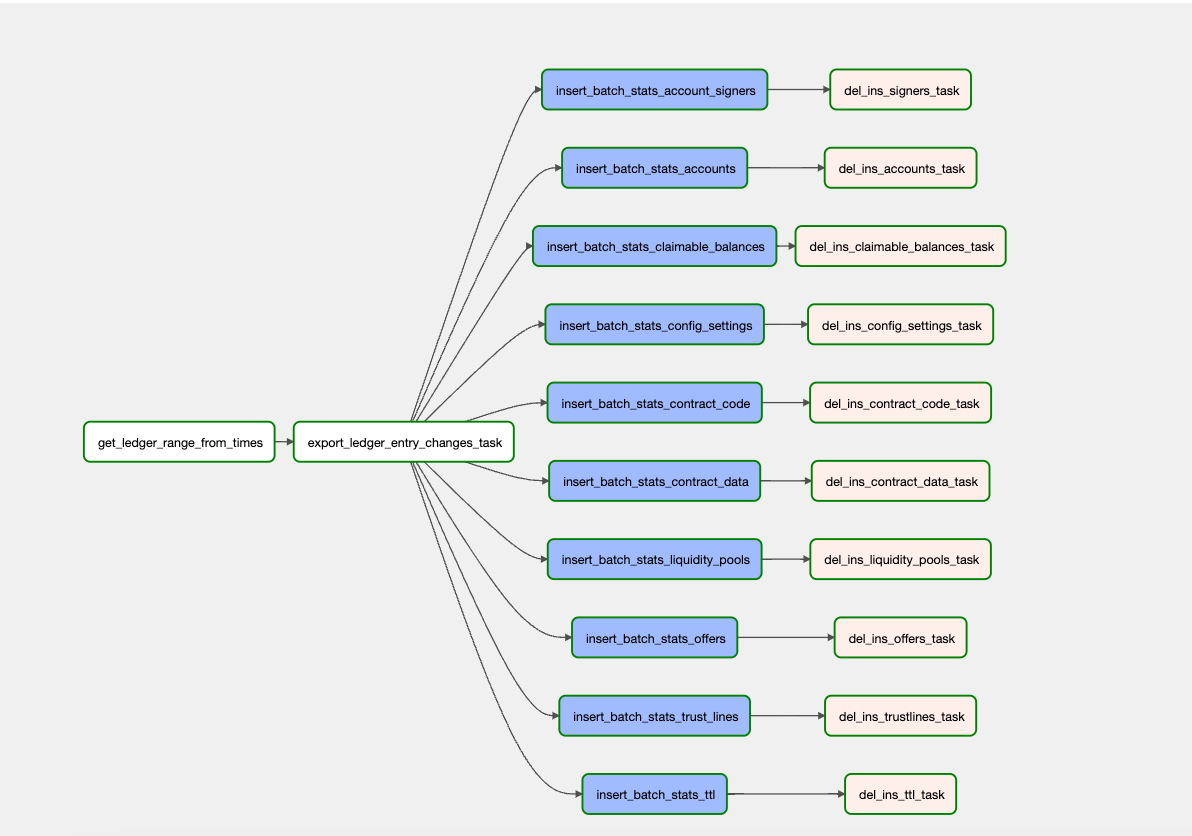
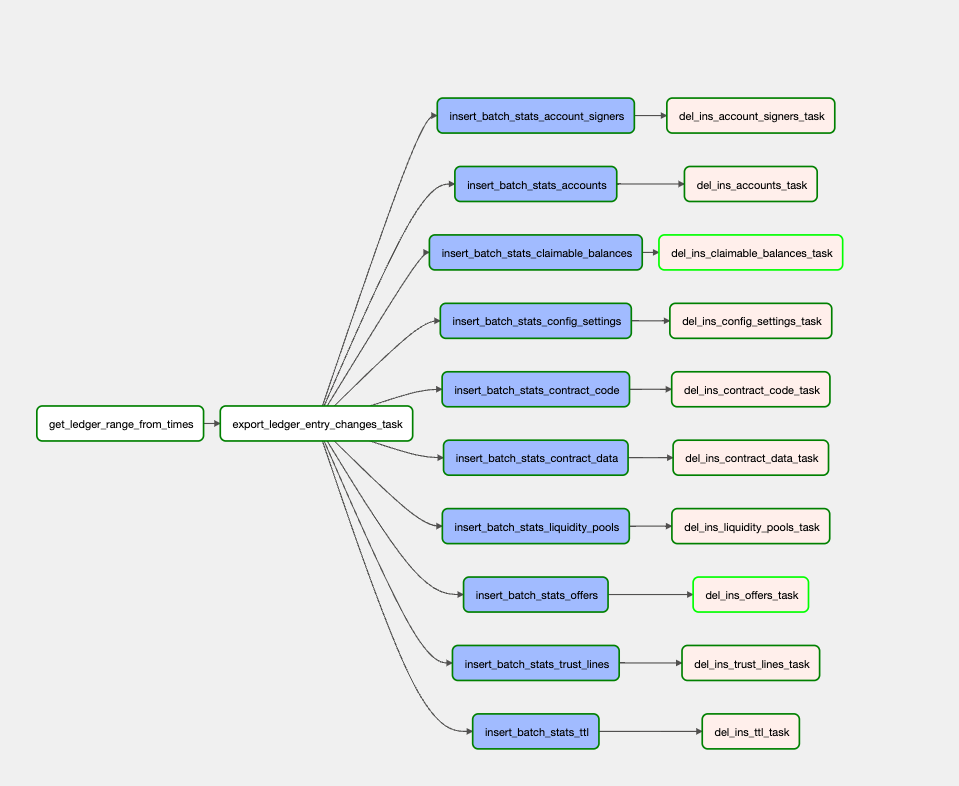
Updated the Documentation images Removed redundant code added checks for missing key values

Changed region(s): [[0.0302, 0.0611, 0.9072, 0.9771], [0.4234, 0.6412, 0.877, 0.7023]]

diff --git a/dags/state_table_dag.py b/dags/state_table_dag.py
@@ -68,6 +68,24 @@ use_futurenet = literal_eval(Variable.get("use_futurenet"))
 use_captive_core = literal_eval(Variable.get("use_captive_core"))
 txmeta_datastore_path = "{{ var.value.txmeta_datastore_path }}"
 
+# Ensure all required keys are present in table_names
+required_keys = [
+    "accounts",
+    "claimable_balances",
+    "offers",
+    "liquidity_pools",
+    "signers",
+    "trustlines",
+    "contract_data",
+    "contract_code",
+    "config_settings",
+    "ttl",
+]
+
+missing_keys = [key for key in required_keys if key not in table_names]
+if missing_keys:
+    raise KeyError(f"Missing Id in the table_ids Airflow Variable: {missing_keys}")
+
 """
 The date task reads in the execution time of the current run, as well as the next
 execution time. It converts these two times into ledger ranges.
@@ -126,14 +144,7 @@ source_object_suffix_mapping = {
     "ttl": "/*-ttl.txt",
 }
 
-# filter for only the required tables pertaining to the DAG
-table_id_and_suffixes = {
-    key: suffix
-    for key, suffix in source_object_suffix_mapping.items()
-    if key in table_names
-}
-
-for table_id, source_object_suffix in table_id_and_suffixes.items():
+for table_id, source_object_suffix in source_object_suffix_mapping.items():
     table_name = table_names[table_id]  # Get the expanded table name
     task_vars = initialize_task_vars(
         table_id,

diff --git a/dags/stellar_etl_airflow/build_del_ins_from_gcs_to_bq_task.py b/dags/stellar_etl_airflow/build_del_ins_from_gcs_to_bq_task.py
@@ -136,8 +136,9 @@ def build_del_ins_from_gcs_to_bq_task(
     if table_name == "history_assets":
         staging_table_suffix = "_staging"
 
+    schema_fields = read_local_schema(f"{table_name}")
+
     if table_id in history_tables:
-        schema_fields = read_local_schema(f"history_{table_id}")
         gcs_to_bq_operator = CustomGCSToBigQueryOperator(
             task_id=f"send_{table_name}_to_bq",
             execution_timeout=timedelta(
@@ -172,7 +173,6 @@ def build_del_ins_from_gcs_to_bq_task(
             dag=dag,
         )
     else:
-        schema_fields = read_local_schema(f"{table_name}")
         gcs_to_bq_operator = GCSToBigQueryOperator(
             task_id=f"send_{table_name}_to_bq",
             execution_timeout=timedelta(
